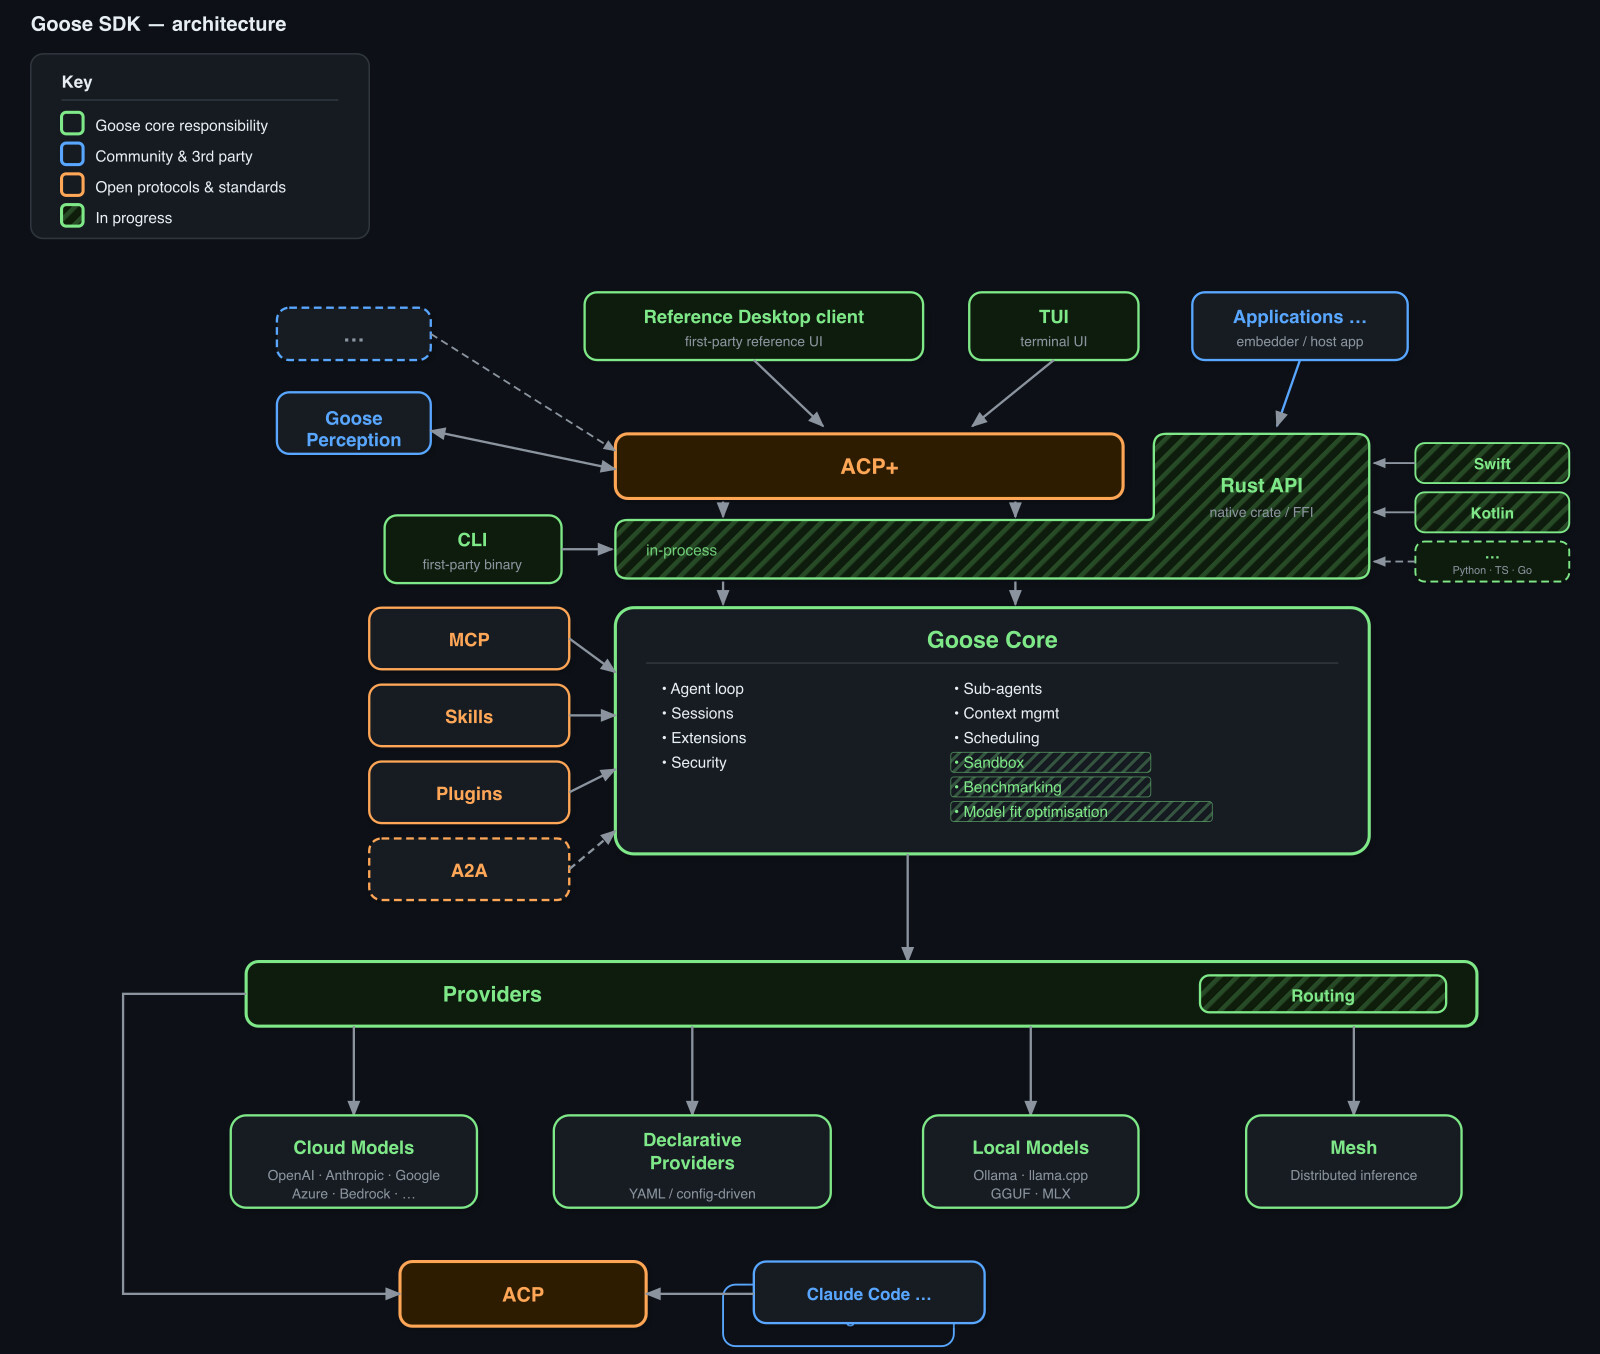
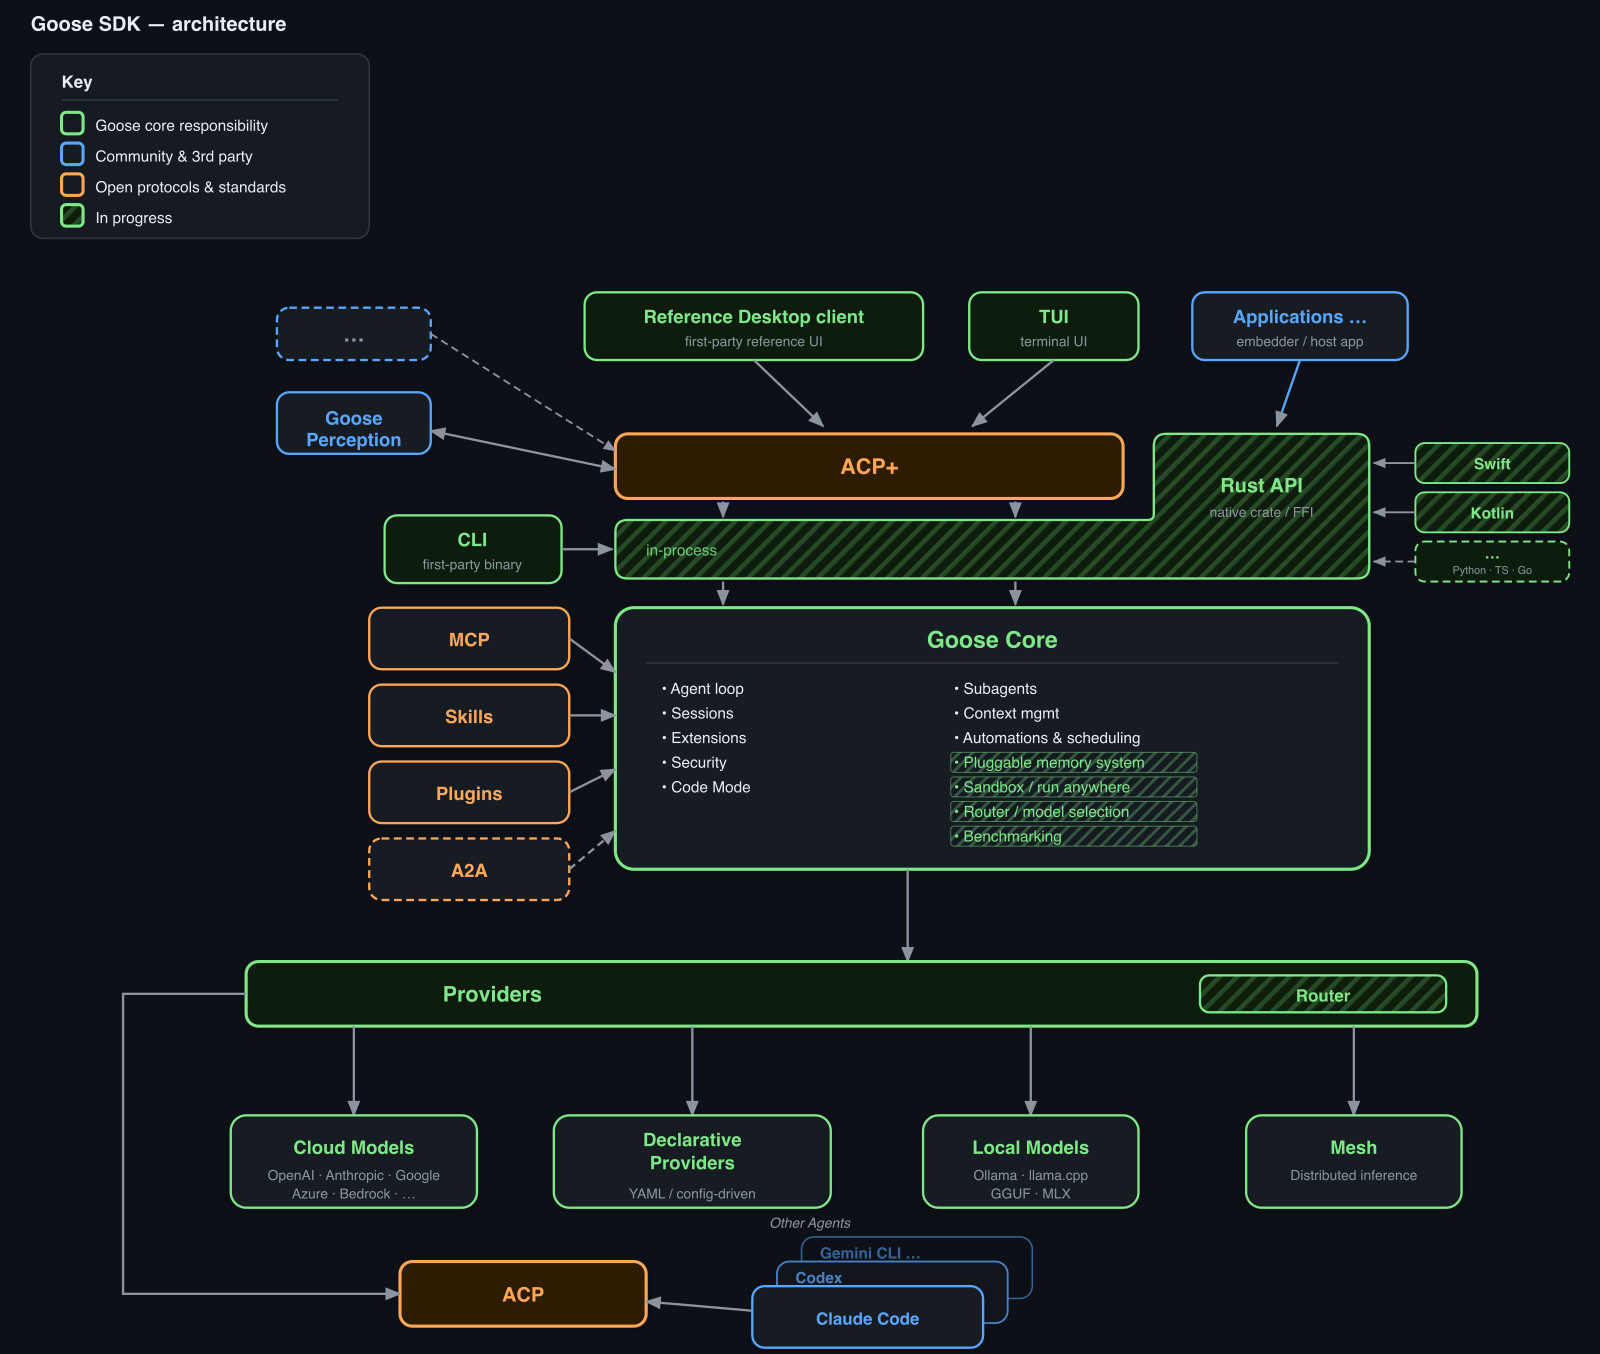
clarifying

diff --git a/goose-sdk.html b/goose-sdk.html
@@ -571,7 +571,7 @@
             <li><strong>Security</strong> — prompt injection detection, tool permissions, malware checks</li>
             <li><strong>Context management</strong> — auto-compaction, token counting, cost tracking</li>
             <li><strong>Extensions</strong> — MCP + rMCP, Skills, Recipes, lifecycle hooks</li>
-            <li><strong>Sub-agents, scheduling, sandboxed execution</strong></li>
+            <li><strong>Subagents, automations &amp; scheduling, Code Mode, sandboxing</strong></li>
           </ul>
         </div>
       </div>
@@ -793,20 +793,21 @@
             <li><strong>Token counting</strong> — tiktoken BPE</li>
             <li><strong>Cost tracking</strong> — per-provider, cache-aware</li>
             <li><strong>Session persistence</strong> — create, resume, fork, export</li>
-            <li><strong>Chat recall</strong> across sessions</li>
+            <li><strong>Pluggable memory system</strong> — MCP memory, chat recall, persistent instructions <em class="signet">(consolidating)</em></li>
           </ul>
         </div>
         <div class="panel vrule">
           <span class="label">Agent capabilities</span>
           <h4>Beyond a single loop</h4>
           <ul class="fine">
-            <li><strong>Sub-agents</strong> — parallel, isolated context</li>
-            <li><strong>Scheduling</strong> — background &amp; recurring tasks</li>
-            <li><strong>Sandboxed code execution</strong> — Docker <em class="signet">(not started)</em></li>
+            <li><strong>Subagents</strong> — parallel, recipe-instrumented, isolated context</li>
+            <li><strong>Automations &amp; scheduling</strong> — cron jobs; inspect, run, pause</li>
+            <li><strong>Code Mode</strong> — agent executes JavaScript to call tools</li>
+            <li><strong>Sandbox / run anywhere</strong> — local, Docker, remote <em class="signet">(partial)</em></li>
             <li><strong>Tool-loop detection</strong></li>
             <li><strong>Retry with backoff</strong></li>
             <li><strong>Benchmarking</strong> — built-in eval harness <em class="signet">(not started)</em></li>
-            <li><strong>Model fit optimisation</strong> — pick the right model per task <em class="signet">(not started)</em></li>
+            <li><strong>Router / model selection</strong> — pick model &amp; provider per query <em class="signet">(PoC)</em></li>
           </ul>
         </div>
       </div>
@@ -829,7 +830,7 @@
           <ul class="fine">
             <li><strong>Cloud</strong> — Anthropic, OpenAI, Bedrock, Databricks, xAI, Groq…</li>
             <li><strong>Local</strong> — Ollama, llama.cpp, Candle</li>
-            <li><strong>Routing</strong> — task-aware model selection across providers <em class="signet">(not started)</em></li>
+            <li><strong>Router</strong> — dynamic model selection across providers <em class="signet">(PoC)</em></li>
             <li><strong>Mesh</strong> — distributed model routing</li>
             <li><strong>Claude Code</strong> — as a provider via ACP</li>
             <li><strong>Observability</strong> — OpenTelemetry + Langfuse</li>
@@ -879,10 +880,10 @@
           <p>Discoverable <code>SKILL.md</code> files with frontmatter. Project-scoped (<code>.goose/skills/</code>) or global (<code>~/.agents/skills/</code>). Loaded by the agent on demand.</p>
         </div>
         <div class="panel vrule">
-          <span class="label">iv. Recipes &amp; Sub-agents</span>
+          <span class="label">iv. Recipes &amp; Subagents</span>
           <h4>Configurable agency</h4>
-          <p><strong>Recipes:</strong> declarative YAML — prompt, extensions, model, parameters. Shareable, deeplinkable, schedulable.</p>
-          <p style="margin-top: 6px;"><strong>Sub-agents:</strong> child agents with isolated contexts for parallel workstreams.</p>
+          <p><strong>Recipes:</strong> declarative YAML — prompt, extensions, model, parameters, success criteria. Shareable, deeplinkable, schedulable.</p>
+          <p style="margin-top: 6px;"><strong>Subagents:</strong> child agents run in parallel, each instrumented by a recipe, with isolated contexts.</p>
         </div>
       </div>
       </div>
@@ -1131,7 +1132,7 @@ providers.providers
         </div>
         <div class="panel">
           <span class="label">iii. Extend, don't fork</span>
-          <p>MCP + rMCP for tools. Skills for knowledge. Recipes for config. Hooks for policy. Sub-agents for parallelism.</p>
+          <p>MCP + rMCP for tools. Skills for knowledge. Recipes for config. Hooks for policy. Subagents for parallelism.</p>
         </div>
         <div class="panel vrule">
           <span class="label">iv. Open protocol</span>